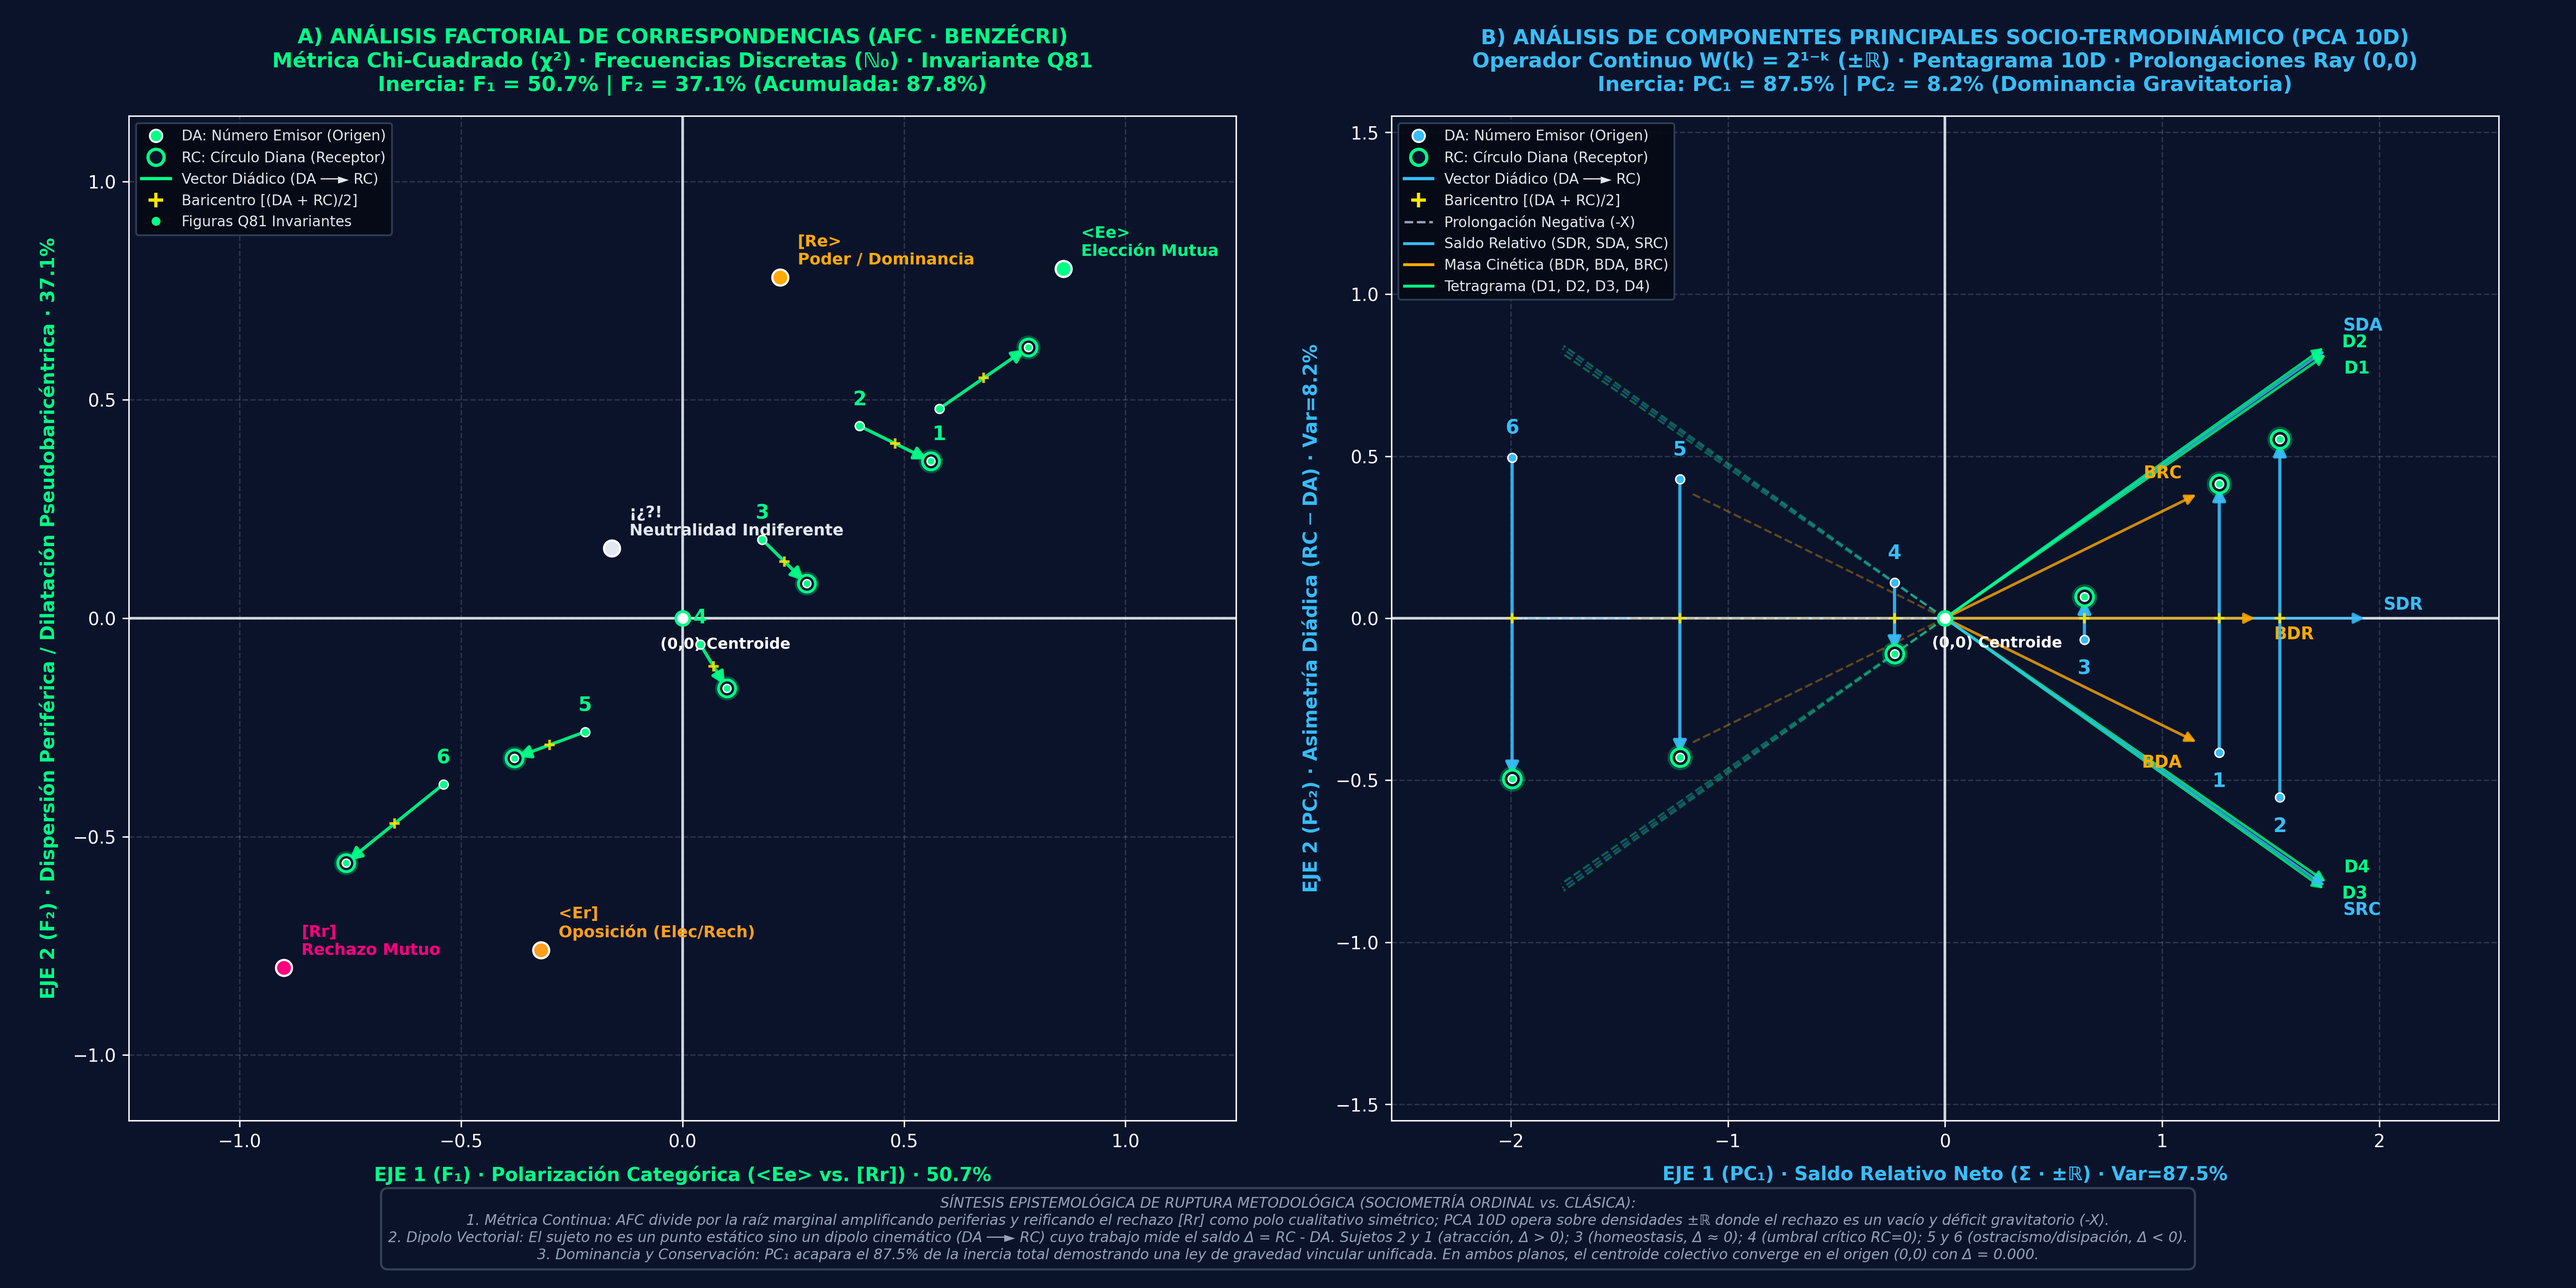
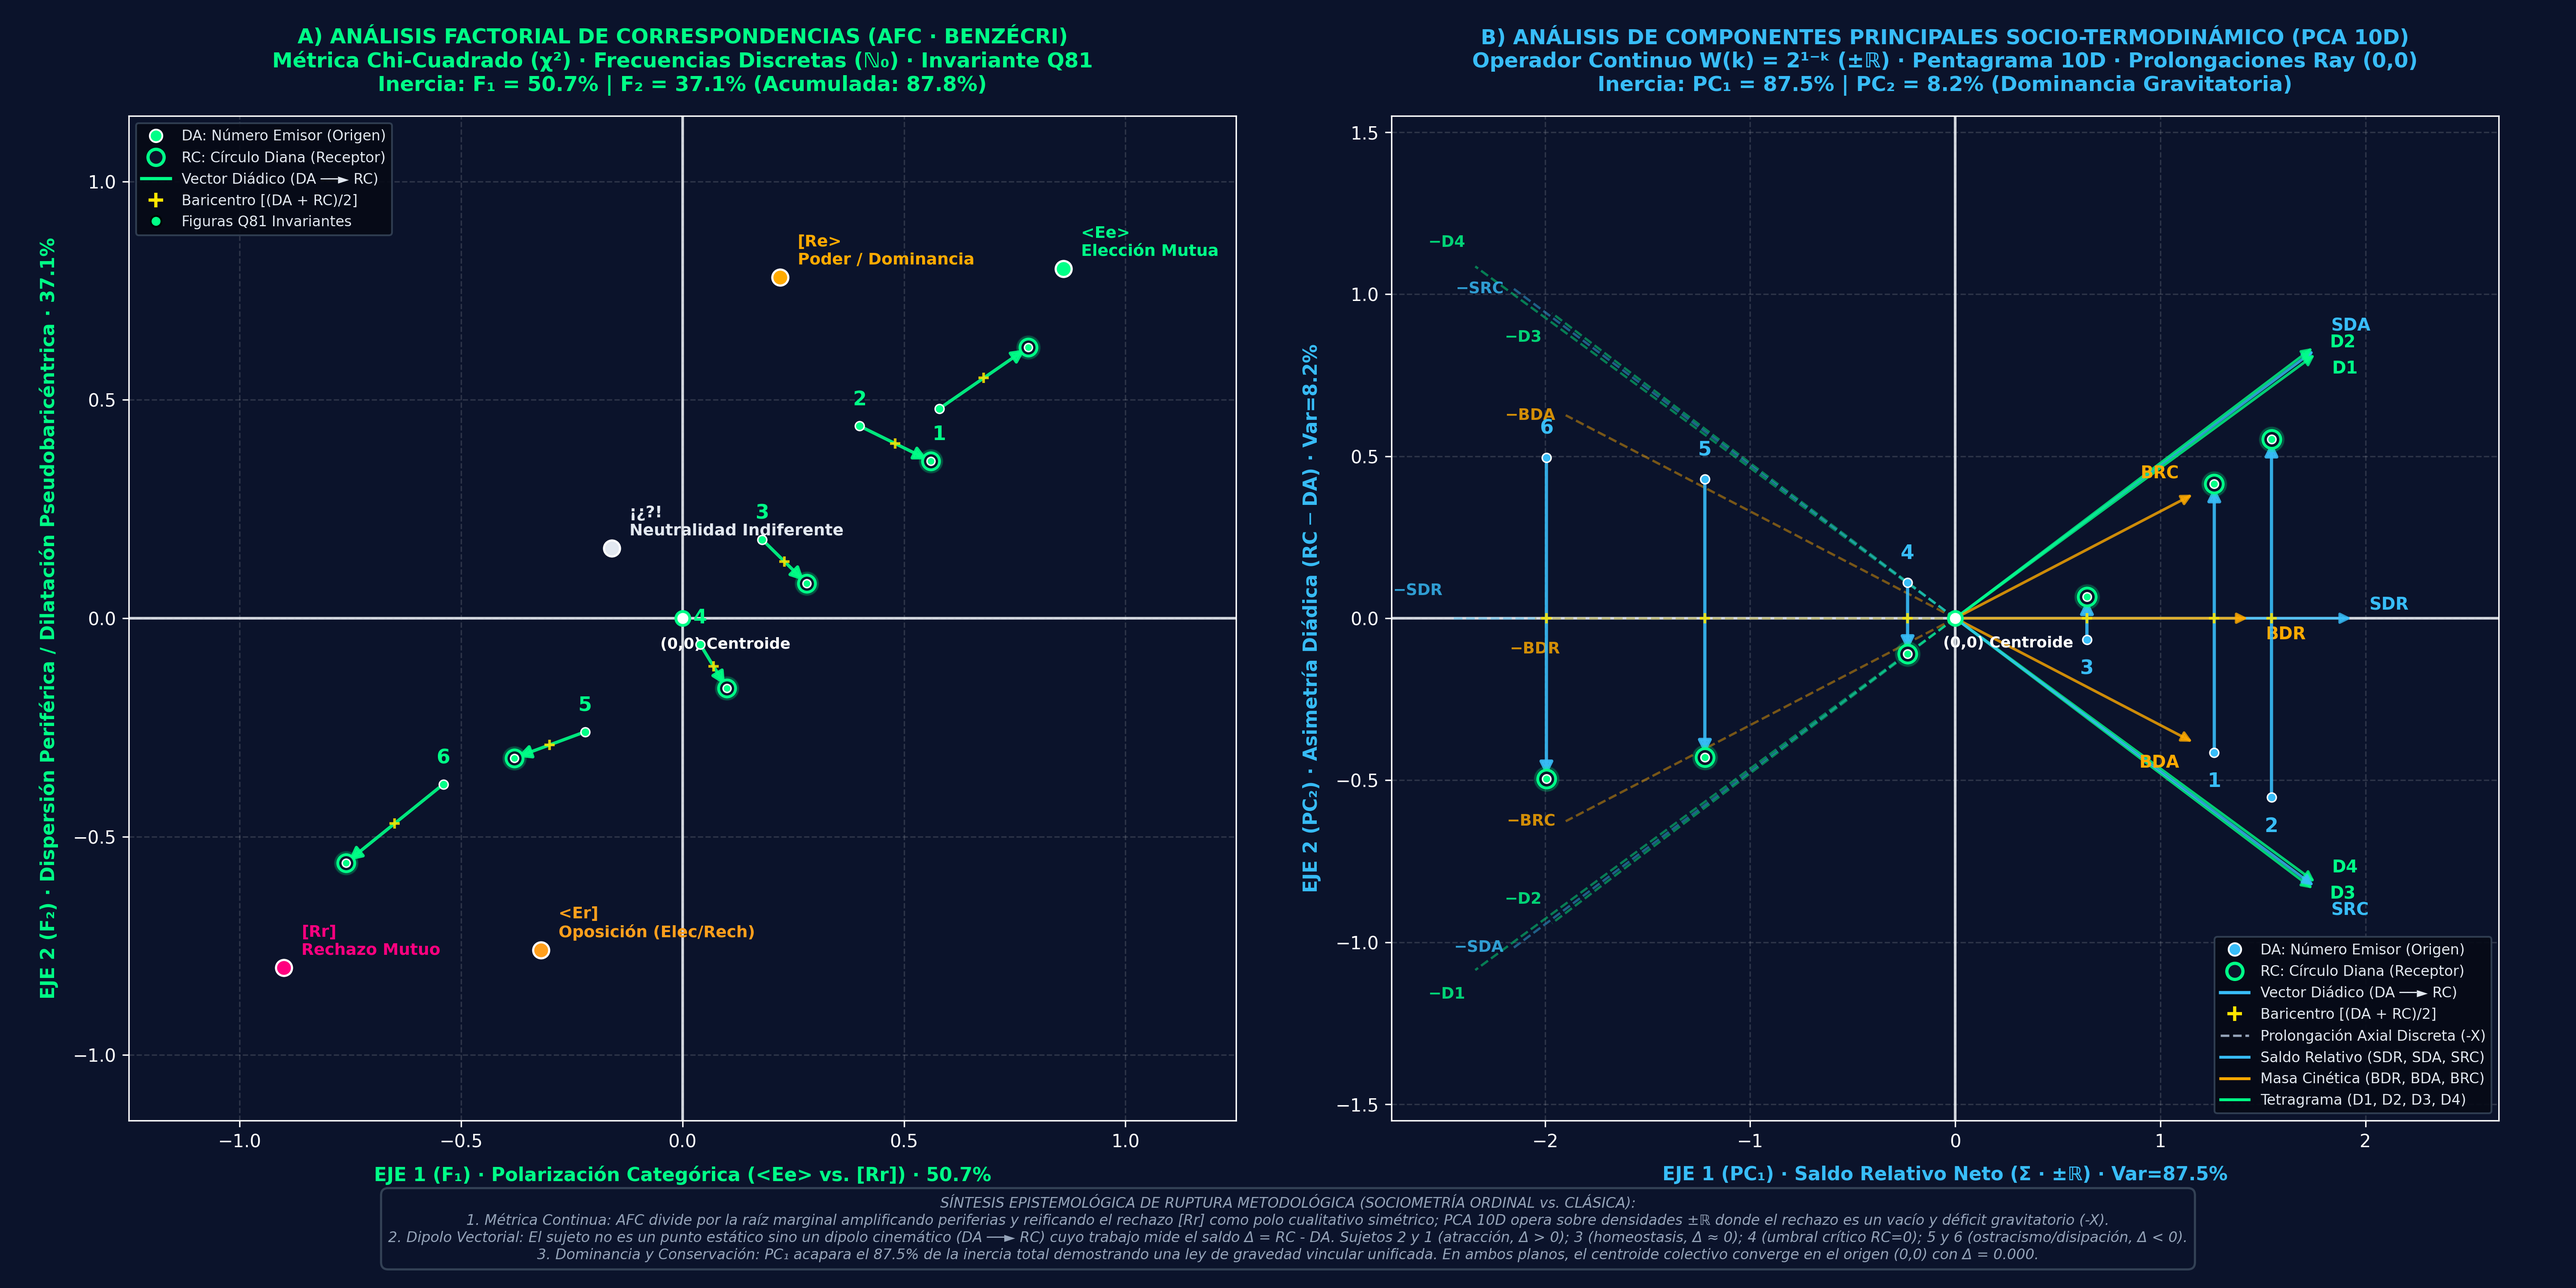
Auto-deploy: 2026-09-27 10:19:10 - VISORD & NEXORD Web sync

diff --git a/nivel5_matematico.html b/nivel5_matematico.html
@@ -5939,16 +5939,41 @@
           const fx = axisCenter.x + col.x * scaleX;
           const fy = axisCenter.y - col.y * scaleY;
 
-          // Prolongación proyectiva negativa (recta discontinua al semieje opuesto que pasa por 0,0)
+          // Prolongación axial discreta de todos los componentes al semieje opuesto (-X)
           if (!isAFC) {
+            const norm = Math.hypot(col.x, col.y) || 1.0;
+            const ux = col.x / norm;
+            const uy = col.y / norm;
+
+            // Longitudes radiales escalonadas para evitar colisiones de etiquetas
+            const negLens = {
+              'SDR': 1.15, 'BDR': 0.98,
+              'SDA': 1.14, 'D1': 1.25, 'D2': 1.04, 'BRC': 0.96,
+              'SRC': 1.14, 'D4': 1.25, 'D3': 1.04, 'BDA': 0.96
+            };
+            const L_neg = (negLens[col.id] || 1.08);
+            const negX = axisCenter.x - ux * L_neg * scaleX;
+            const negY = axisCenter.y + uy * L_neg * scaleY;
+
             ctx.save();
-            ctx.strokeStyle = "rgba(255, 255, 255, 0.16)";
-            ctx.setLineDash([3, 4]);
-            ctx.lineWidth = 1.0;
+            // Trazo axial discreto con el color temático de cada componente
+            ctx.strokeStyle = col.color;
+            ctx.globalAlpha = 0.40;
+            ctx.setLineDash([4, 4]);
+            ctx.lineWidth = 1.2;
             ctx.beginPath();
             ctx.moveTo(axisCenter.x, axisCenter.y);
-            ctx.lineTo(axisCenter.x - col.x * scaleX, axisCenter.y + col.y * scaleY);
+            ctx.lineTo(negX, negY);
             ctx.stroke();
+
+            // Etiqueta discreta en el extremo de la prolongación axial
+            ctx.globalAlpha = 0.78;
+            ctx.fillStyle = col.color;
+            ctx.font = "bold 9.5px 'JetBrains Mono', monospace";
+            ctx.textAlign = "right";
+            ctx.textBaseline = "middle";
+            const shortTag = col.id === 'D1' ? 'D₁' : col.id === 'D2' ? 'D₂' : col.id === 'D3' ? 'D₃' : col.id === 'D4' ? 'D₄' : col.tag;
+            ctx.fillText(`−${shortTag}`, negX - 5, negY);
             ctx.restore();
           }
 
